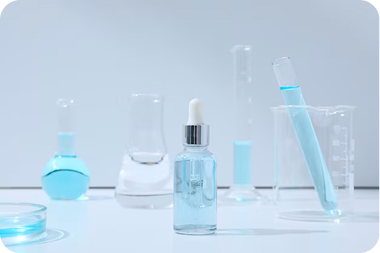
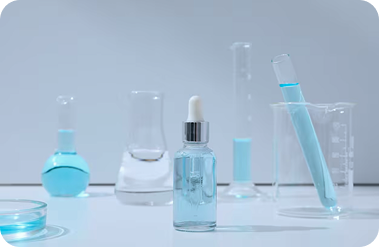
style: mengubah backgroud web, memperbarui image pada section hero, benefit, dan product

diff --git a/src/components/Product/Product.jsx b/src/components/Product/Product.jsx
@@ -1,11 +1,20 @@
 import Heading from "./Heading";
 import ProductList from "./ProductList";
+import item1 from "../../assets/item1.png"
+import item2 from "../../assets/item2.png"
+import item3 from "../../assets/item3.png"
+import item4 from "../../assets/item4.png"
+import item5 from "../../assets/item5.png"
+import item6 from "../../assets/item6.png"
+import item7 from "../../assets/item7.png"
+import item8 from "../../assets/item8.png"
 
 export default function Product() {
   const dataProduct = [
     {
       id: 1,
       name: "Skin Retinol Serum",
+      image: item1,
       price: 58000,
       sold: 340,
       rating: 4.9,
@@ -13,6 +22,7 @@ export default function Product() {
     {
       id: 2,
       name: "Skin Daily Moisturizer",
+      image: item2,
       price: 46000,
       sold: 243,
       rating: 4.9,
@@ -20,6 +30,7 @@ export default function Product() {
     {
       id: 3,
       name: "Skin Aqua Series",
+      image: item3,
       price: 219000,
       sold: 200,
       rating: 4.9,
@@ -27,6 +38,7 @@ export default function Product() {
     {
       id: 4,
       name: "Skin Refreshing Toner",
+      image: item4,
       price: 82000,
       sold: 190,
       rating: 4.9,
@@ -34,20 +46,23 @@ export default function Product() {
     {
       id: 5,
       name: "Skin Brightening Serum",
-      price: 75000,
+      image: item5,
+      price: 65000,
       sold: 280,
       rating: 4.9,
     },
     {
       id: 6,
-      name: "Skin Hydration Gel",
-      price: 49000,
+      name: "Skin Hydration series",
+      image: item6,
+      price: 195000,
       sold: 150,
       rating: 4.9,
     },
     {
       id: 7,
       name: "Skin UV Protection",
+      image: item7,
       price: 56000,
       sold: 175,
       rating: 4.9,
@@ -55,6 +70,7 @@ export default function Product() {
     {
       id: 8,
       name: "Skin Cleansing foam",
+      image: item8,
       price: 35000,
       sold: 210,
       rating: 4.9,
@@ -65,9 +81,7 @@ export default function Product() {
     <section className="my:20 lg:my-30 lg:px-14">
       <Heading
         title="Pilihan Terbaik untuk Kulit Cerah & Sehat"
-        description="Temukan solusi perawatan terbaik untuk kulit yang sehat, lembap, dan
-        bercahaya. Diformulasikan dengan bahan berkualitas untuk hasil maksimal,
-        karena kulitmu layak mendapatkan yang terbaik!"
+        description="Temukan solusi perawatan terbaik untuk kulit yang sehat, lembap, dan bercahaya."
       />
 
       {/* For Desktop (8 Product) */}

diff --git a/src/components/Product/ProductCard.jsx b/src/components/Product/ProductCard.jsx
@@ -1,7 +1,7 @@
-export default function ProductCard({ name, price, sold, rating }) {
+export default function ProductCard({ name, price, sold, rating, image }) {
     return (
-        <div className="bg-white p-2 rounded-xl shadow-md font-semibold">
-            <img src="#" alt="" className="w-full h-48 bg-gray-100 rounded-xl" />
+        <div className="bg-gray-50 p-2 rounded-xl shadow-sm font-semibold">
+            <img src={image} alt="" className="w-full h-48 bg-gray-100 rounded-xl object-cover" />
             <h3 className="text-lg mt-4 mb-1 opacity-85">{name}</h3>
             <p className="mb-4">Rp. {price.toLocaleString()} <span className="opacity-75">({sold} sold)</span></p>
             <p><span className="text-[#039397]">&#9733; &#9733; &#9733; &#9733; &#9733;</span> {rating}</p>

diff --git a/src/components/Benefit/Benefits.jsx b/src/components/Benefit/Benefits.jsx
@@ -5,7 +5,7 @@ import BenefitItem from "./BenefitItem";
 
 export default function Benefits() {
   return (
-    <section className="flex flex-col lg:flex-row justify-between items-start gap-8 mt-10 mb-20 lg:my-20 lg:px-14">
+    <section className="flex flex-col lg:flex-row justify-between items-start gap-8 mt-10 mb-20 lg:my-30 lg:px-14">
       <BenefitItem
         title="Kandungan Niacinamide 5%"
         description="Niacinamide adalah bentuk vitamin B3 yang dikenal mampu mencerahkan kulit, mengontrol minyak berlebih, dan memperbaiki skin barrier."

diff --git a/src/components/Testimonial/TeastimonialCard.jsx b/src/components/Testimonial/TeastimonialCard.jsx
@@ -1,6 +1,6 @@
 export default function TestimonialCard({ image, title, description }) {
   return (
-    <div className="w-full lg:h-80 h-96 bg-white rounded-4xl relative overflow-hidden">
+    <div className="w-full lg:h-80 h-96 bg-gray-100 rounded-4xl relative overflow-hidden">
       <img src={image} alt="Nadia" className="w-full lg:h-72 h-80 object-cover object-top" />
 
       <div className="absolute bottom-0 w-full bg-white/60 backdrop-blur-md p-4 rounded-2xl">

diff --git a/src/components/Benefit/BenefitItem.jsx b/src/components/Benefit/BenefitItem.jsx
@@ -3,7 +3,7 @@ export default function BenefitItem({ title, description, image, alt, reverse })
     <div
       className={`flex flex-col ${
         reverse ? "lg:flex-col-reverse" : ""
-      } gap-4 lg:gap-10 w-full`}
+      } gap-4 lg:gap-12 w-full`}
     >
       <div className="flex flex-col gap-4 w-full p-2 mt-4">
         <h3 className="text-xl font-semibold">{title}</h3>

diff --git a/src/components/Testimonial/TestimonialList.jsx b/src/components/Testimonial/TestimonialList.jsx
@@ -19,7 +19,7 @@ export default function TestimonialList() {
   ];
 
   return (
-    <div className="w-full lg:w-3/4 flex flex-col md:flex-row md:gap-10 gap-6 justify-between">
+    <div className="w-full lg:w-3/4 flex flex-col md:flex-row md:gap-14 gap-6 justify-between">
       {testimonials.map((item, index) => (
         <TestimonialCard
           key={index}

diff --git a/src/components/Hero/HeroImage.jsx b/src/components/Hero/HeroImage.jsx
@@ -4,7 +4,7 @@ export default function HeroImage() {
   return (
     <img
       src={cover}
-      className="w-full h-screen object-cover object-right lg:brightness-90 brightness-40"
+      className="w-full h-screen object-cover object-right lg:brightness-80 contrast-150 brightness-40"
     />
   );
 }

diff --git a/src/components/Product/Heading.jsx b/src/components/Product/Heading.jsx
@@ -1,6 +1,6 @@
 export default function Heading({ title, description }) {
   return (
-    <div className="md:text-center max-w-[700px] m-auto">
+    <div>
       <h2 className="text-2xl font-semibold mb-2">{title}</h2>
       <p className="font-semibold opacity-75">{description}</p>
     </div>

diff --git a/src/components/Product/ProductList.jsx b/src/components/Product/ProductList.jsx
@@ -13,6 +13,7 @@ export default function ProductList({ products, isMobile }) {
         <ProductCard
           key={item.id}
           name={item.name}
+          image={item.image}
           price={item.price}
           sold={item.sold}
           rating={item.rating}

diff --git a/src/index.css b/src/index.css
@@ -3,7 +3,7 @@
 @layer base {
   html {
     font-family: "Poppins", sans-serif;
-    background-color: rgb(245, 245, 245);
+    background-color: white;
   }
 
   .font-josefin {
